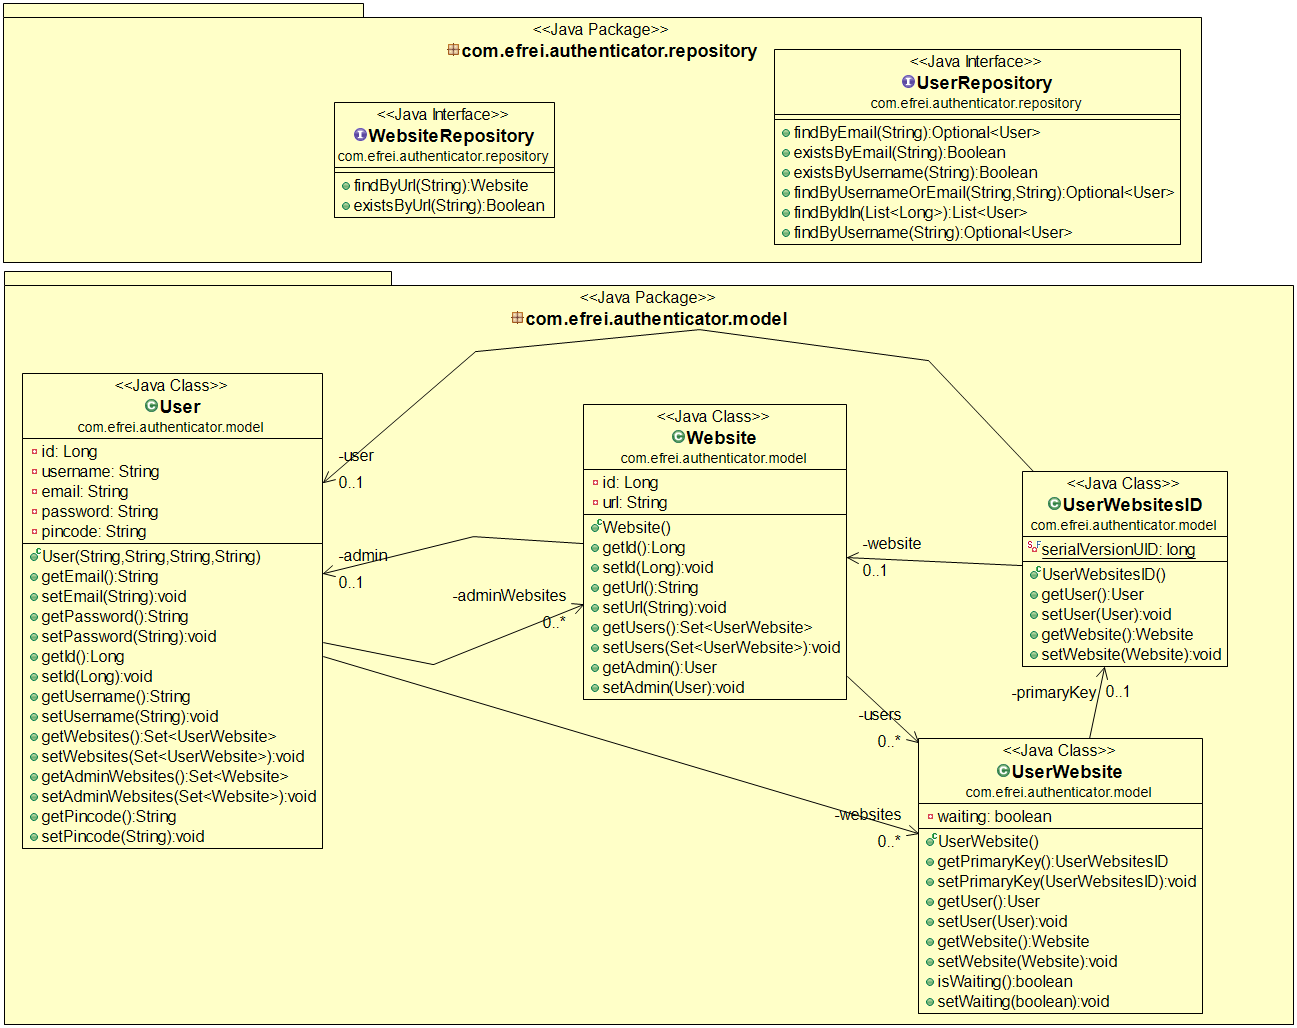
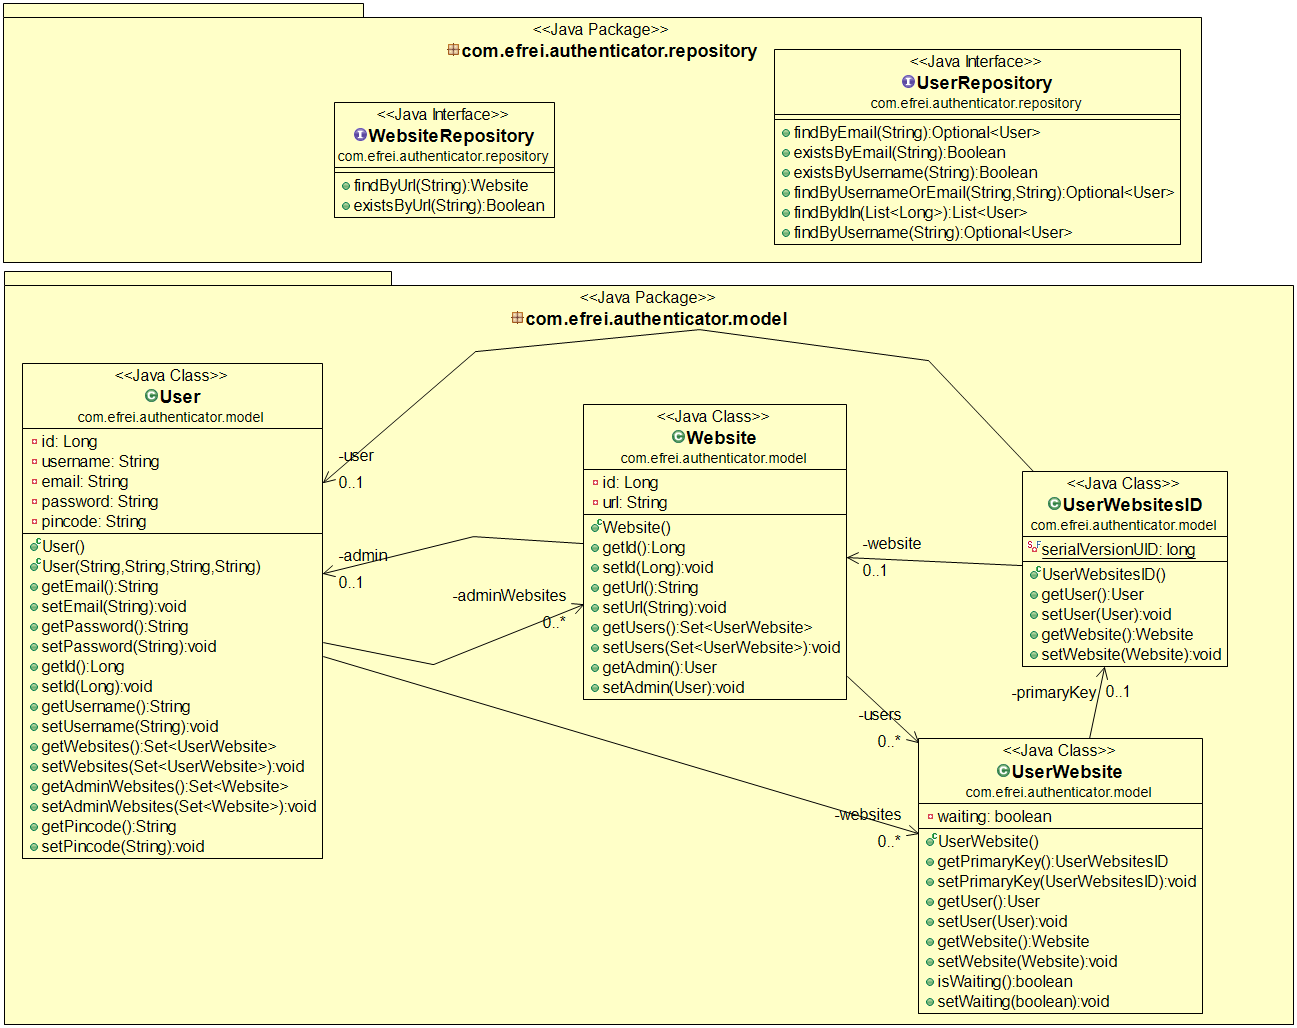
Fix

Changed region(s): [[0.0, 0.3424, 0.2467, 0.8405]]

diff --git a/API/authenticator/src/main/java/com/efrei/authenticator/controller/WebsiteController.java b/API/authenticator/src/main/java/com/efrei/authenticator/controller/WebsiteController.java
@@ -5,12 +5,12 @@ import javax.validation.Valid;
 import org.springframework.beans.factory.annotation.Autowired;
 import org.springframework.http.HttpStatus;
 import org.springframework.http.ResponseEntity;
+import org.springframework.security.core.context.SecurityContextHolder;
 import org.springframework.web.bind.annotation.GetMapping;
 import org.springframework.web.bind.annotation.PostMapping;
 import org.springframework.web.bind.annotation.RequestBody;
 import org.springframework.web.bind.annotation.RequestHeader;
 import org.springframework.web.bind.annotation.RequestMapping;
-import org.springframework.web.bind.annotation.RequestParam;
 import org.springframework.web.bind.annotation.RestController;
 
 import com.efrei.authenticator.dto.BasicAPIResponseDTO;
@@ -20,6 +20,7 @@ import com.efrei.authenticator.model.UserWebsite;
 import com.efrei.authenticator.model.Website;
 import com.efrei.authenticator.repository.UserRepository;
 import com.efrei.authenticator.repository.WebsiteRepository;
+import com.efrei.authenticator.security.BasicUser;
 import com.efrei.authenticator.security.JwtTokenProvider;
 import com.efrei.authenticator.services.WebsiteService;
 
@@ -39,9 +40,6 @@ public class WebsiteController {
 	JwtTokenProvider tokenProvider;
 
 	@Autowired
-	WebsiteRepository websiteRepository;
-
-	@Autowired
 	WebsiteService service;
 
 	@Autowired
@@ -50,14 +48,10 @@ public class WebsiteController {
 	@PostMapping()
 	@ApiOperation("Register a website based on website entity")
 	@ApiResponses(value = { @ApiResponse(code = 200, message = "OK"),
-			@ApiResponse(code = 400, message = "Token invalid or site already registered") })
+			@ApiResponse(code = 400, message = "Site already registered") })
 	public ResponseEntity<?> registerWebiste(@ApiParam("Website entity") @Valid @RequestBody CreateWebsiteDTO dto) {
 
-		if (!tokenProvider.validateToken(dto.getManagerToken())) {
-			return new ResponseEntity<BasicAPIResponseDTO>(new BasicAPIResponseDTO(false, "Token not valid"),
-					HttpStatus.BAD_REQUEST);
-		}
-		if (websiteRepository.existsByUrl(dto.getSite())) {
+		if (repository.existsByUrl(dto.getSite())) {
 			return new ResponseEntity<BasicAPIResponseDTO>(new BasicAPIResponseDTO(false, "Site is already taken!"),
 					HttpStatus.BAD_REQUEST);
 		}
@@ -67,26 +61,21 @@ public class WebsiteController {
 	}
 
 	@GetMapping("users")
-	@ApiOperation("Get users who are register to a specific website based on url and token")
+	@ApiOperation("Get users who are register to a specific website based on url")
 	@ApiResponses(value = {
 			@ApiResponse(code = 200, message = "OK", response = UserWebsite.class, responseContainer = "List"),
-			@ApiResponse(code = 400, message = "Token invalid or url not register or user isn't admin") })
-	public ResponseEntity<?> getAllUser(@ApiParam("Token of a user") @Valid @RequestParam("token") String token,
-			@ApiParam("Url of website") @Valid @RequestHeader("url") String url) {
-
-		if (!tokenProvider.validateToken(token)) {
-			return new ResponseEntity<BasicAPIResponseDTO>(new BasicAPIResponseDTO(false, "Token not valid"),
-					HttpStatus.BAD_REQUEST);
-		}
+			@ApiResponse(code = 400, message = "Url not register or user isn't admin") })
+	public ResponseEntity<?> getAllUser(@ApiParam("Url of website") @Valid @RequestHeader("url") String url) {
 
 		Website website = repository.findByUrl(url);
 		if (website == null) {
 			return new ResponseEntity<BasicAPIResponseDTO>(new BasicAPIResponseDTO(false, "Url not register"),
 					HttpStatus.BAD_REQUEST);
 		}
-
+		String username =((BasicUser) SecurityContextHolder.getContext().getAuthentication().getPrincipal()).getUsername();
+		
 		// Admin
-		Long id = tokenProvider.getUserIdFromJWT(token);
+		Long id = userRepository.findByUsername(username).get().getId();
 		User user = userRepository.findById(id).get();
 
 		if (user != website.getAdmin()) {
@@ -98,33 +87,29 @@ public class WebsiteController {
 	}
 
 	@PostMapping("/action-required")
-	@ApiOperation("Create a double verification based on url and token")
+	@ApiOperation("Create a double verification based on url")
 	@ApiResponses(value = {
 			@ApiResponse(code = 200, message = "OK"),
-			@ApiResponse(code = 400, message = "Token invalid or url not register or user not register") })
-	public ResponseEntity<?> setActionRequired(@ApiParam("Token of a user") @Valid @RequestParam("token") String token,
-			@ApiParam("Url of website") @Valid @RequestHeader("url") String url) {
-
-		if (!tokenProvider.validateToken(token)) {
-			return new ResponseEntity<BasicAPIResponseDTO>(new BasicAPIResponseDTO(false, "Token not valid"),
-					HttpStatus.BAD_REQUEST);
-		}
+			@ApiResponse(code = 400, message = "Url not register or user not register") })
+	public ResponseEntity<?> setActionRequired(@ApiParam("Url of website") @Valid @RequestHeader("url") String url) {
+		String username =((BasicUser) SecurityContextHolder.getContext().getAuthentication().getPrincipal()).getUsername();
+		
 		Website website = repository.findByUrl(url);
 		if (website == null) {
 			return new ResponseEntity<BasicAPIResponseDTO>(new BasicAPIResponseDTO(false, "Url not register"),
 					HttpStatus.BAD_REQUEST);
 		}
-		if (!existWebsite(token, url)) {
+		if (!existWebsite(username, url)) {
 			return new ResponseEntity<BasicAPIResponseDTO>(
 					new BasicAPIResponseDTO(false, "User not register for this website"), HttpStatus.BAD_REQUEST);
 		}
 
-		return service.setActionRequired(token, website);
+		return service.setActionRequired(username, website);
 	}
 	
 
-	private boolean existWebsite(String token, String url) {
-		Long id = tokenProvider.getUserIdFromJWT(token);
+	private boolean existWebsite(String username, String url) {
+		Long id=userRepository.findByUsername(username).get().getId();
 		Website site = repository.findByUrl(url);
 		for (UserWebsite usr : site.getUsers()) {
 			if (usr.getUser().getId() == id) {

diff --git a/API/authenticator/src/main/java/com/efrei/authenticator/controller/UserController.java b/API/authenticator/src/main/java/com/efrei/authenticator/controller/UserController.java
@@ -4,18 +4,17 @@ import javax.validation.Valid;
 
 import com.efrei.authenticator.security.BasicUser;
 import org.springframework.beans.factory.annotation.Autowired;
-import org.springframework.http.HttpRequest;
 import org.springframework.http.HttpStatus;
 import org.springframework.http.ResponseEntity;
-import org.springframework.security.core.Authentication;
 import org.springframework.security.core.context.SecurityContextHolder;
 import org.springframework.web.bind.annotation.GetMapping;
 import org.springframework.web.bind.annotation.PostMapping;
+import org.springframework.web.bind.annotation.RequestBody;
 import org.springframework.web.bind.annotation.RequestMapping;
-import org.springframework.web.bind.annotation.RequestParam;
 import org.springframework.web.bind.annotation.RestController;
 
 import com.efrei.authenticator.dto.BasicAPIResponseDTO;
+import com.efrei.authenticator.dto.ValidateDTO;
 import com.efrei.authenticator.model.UserWebsite;
 import com.efrei.authenticator.repository.UserRepository;
 import com.efrei.authenticator.repository.WebsiteRepository;
@@ -23,7 +22,6 @@ import com.efrei.authenticator.security.JwtTokenProvider;
 import com.efrei.authenticator.services.UserDetailsServiceImpl;
 
 import io.swagger.annotations.ApiOperation;
-import io.swagger.annotations.ApiParam;
 import io.swagger.annotations.ApiResponse;
 import io.swagger.annotations.ApiResponses;
 
@@ -43,51 +41,44 @@ public class UserController {
 	@Autowired
     JwtTokenProvider tokenProvider;
     
-    @GetMapping("/pincode")
-    @ApiOperation("Get a pincode based on token")
-    @ApiResponses(value = {
-			@ApiResponse(code = 200, message = "OK", response = String.class),
-			@ApiResponse(code = 400, message = "Token invalid") })
-    public ResponseEntity<?> getPincode() {
-
-		String username =((BasicUser) SecurityContextHolder.getContext().getAuthentication().getPrincipal()).getUsername();
-
-    	return service.getPincode(username);
-    }
-    
     
     @GetMapping("/websites")
-	@ApiOperation("Get websites of a user based on token")
-	@ApiResponses(value = { @ApiResponse(code = 200, message = "OK"),
-			@ApiResponse(code = 400, message = "Token invalid") })
+	@ApiOperation("Get websites of a user based")
+	@ApiResponses(value = { @ApiResponse(code = 200, message = "OK")})
 
-	public ResponseEntity<?> getWebsites(@ApiParam("Token of a user") @Valid @RequestParam("token") String token) {
-		if (!tokenProvider.validateToken(token)) {
-			return new ResponseEntity<BasicAPIResponseDTO>(new BasicAPIResponseDTO(false, "Token invalid"),
-					HttpStatus.BAD_REQUEST);
-		}
-		return service.getWebsites(token);
+	public ResponseEntity<?> getWebsites() {
+    	String username =((BasicUser) SecurityContextHolder.getContext().getAuthentication().getPrincipal()).getUsername();
+
+		return service.getWebsites(username);
 	}
 
 	@GetMapping("/websites/action-required")
-	@ApiOperation("Get websites which need action based on token")
+	@ApiOperation("Get websites which need action based")
 	@ApiResponses(value = {
-			@ApiResponse(code = 200, message = "OK", response = UserWebsite.class, responseContainer = "List"),
-			@ApiResponse(code = 400, message = "Token invalid") })
-	public ResponseEntity<?> getWebsitesActionRequired(
-			@ApiParam("Token of a user") @Valid @RequestParam("token") String token) {
-		if (!tokenProvider.validateToken(token)) {
-			return new ResponseEntity<BasicAPIResponseDTO>(new BasicAPIResponseDTO(false, "Token invalid"),
-					HttpStatus.BAD_REQUEST);
-		}
-		return service.getWebsitesActionRequired(token);
+			@ApiResponse(code = 200, message = "OK", response = UserWebsite.class, responseContainer = "List")})
+	public ResponseEntity<?> getWebsitesActionRequired() {
+		String username =((BasicUser) SecurityContextHolder.getContext().getAuthentication().getPrincipal()).getUsername();
+		return service.getWebsitesActionRequired(username);
 	}
 	
 	
 	@PostMapping("/websites/validate")
 	@ApiOperation("Validate double authentification")
-	public ResponseEntity<?> validatAuth(@Valid @RequestParam("tokens")String tokenMobile, String tokenUser ){
-		//TODO
-		return null;
+	@ApiResponses(value = {
+			@ApiResponse(code = 200, message = "OK", response =Object.class),
+			@ApiResponse(code = 400, message = "URL not register or code invalid")
+	})
+	public ResponseEntity<?> validatAuth(@Valid @RequestBody()ValidateDTO dto){
+		if(websiteRepository.existsByUrl(dto.getUrl())) {
+			return new ResponseEntity<BasicAPIResponseDTO>(new BasicAPIResponseDTO(false, "URL not register"),
+                    HttpStatus.BAD_REQUEST);
+		}
+		String username =((BasicUser) SecurityContextHolder.getContext().getAuthentication().getPrincipal()).getUsername();
+		if(dto.getPinecode().equals(userRepository.findByUsername(username).get().getPincode())) {
+			return new ResponseEntity<BasicAPIResponseDTO>(new BasicAPIResponseDTO(false, "Code invalid"),
+                    HttpStatus.BAD_REQUEST);
+		}
+		
+		return service.validate(dto.getPinecode(),dto.getUrl(),username);
 	}
 }

diff --git a/API/authenticator/src/main/java/com/efrei/authenticator/services/UserDetailsServiceImpl.java b/API/authenticator/src/main/java/com/efrei/authenticator/services/UserDetailsServiceImpl.java
@@ -141,4 +141,16 @@ public class UserDetailsServiceImpl implements UserDetailsService {
 				HttpStatus.BAD_REQUEST);
 	}
 
+	public ResponseEntity<?> validate(String pinecode, String url,String username) {
+		Website website=websiteRepository.findByUrl(url);
+		for(UserWebsite usr:website.getUsers()) {
+			if(usr.getUser().getUsername().equals(username)) {
+				usr.setWaiting(false);
+				return ResponseEntity.ok("OK");
+			}
+		}
+		return new ResponseEntity<BasicAPIResponseDTO>(new BasicAPIResponseDTO(false, "User not register to this site"),
+                HttpStatus.BAD_REQUEST);
+	}
+
 }

diff --git a/API/authenticator/src/main/java/com/efrei/authenticator/dto/ValidateDTO.java b/API/authenticator/src/main/java/com/efrei/authenticator/dto/ValidateDTO.java
@@ -1,0 +1,25 @@
+package com.efrei.authenticator.dto;
+
+public class ValidateDTO {
+
+	private String pinecode;
+	
+	private String url;
+
+	public String getPinecode() {
+		return pinecode;
+	}
+
+	public void setPinecode(String pinecode) {
+		this.pinecode = pinecode;
+	}
+
+	public String getUrl() {
+		return url;
+	}
+
+	public void setUrl(String url) {
+		this.url = url;
+	}
+	
+}
